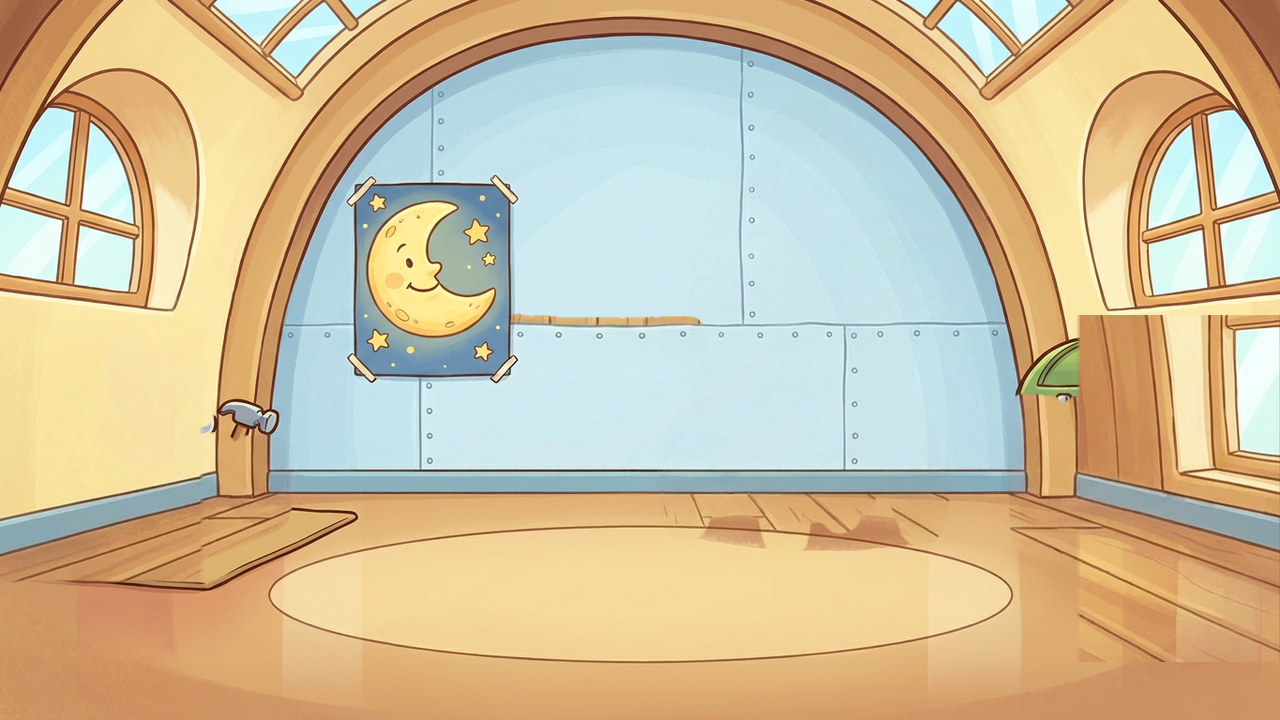
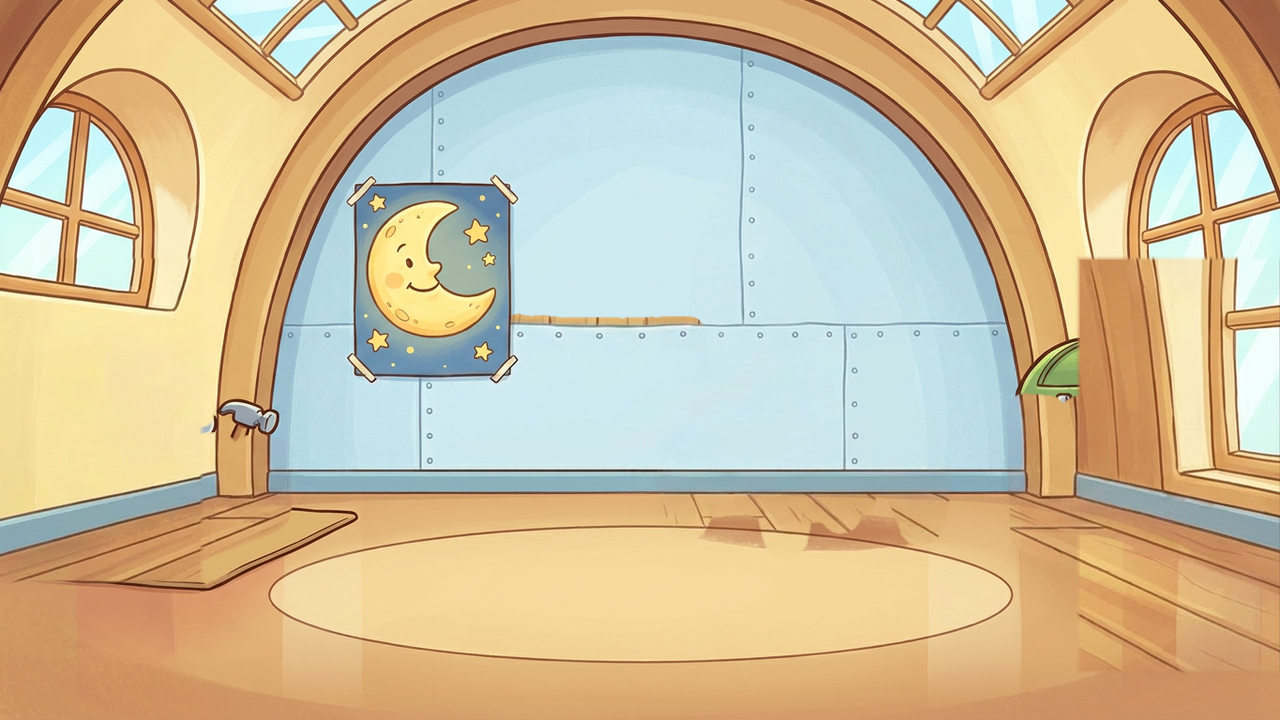
fix(escape): object-mask composite replaces bbox geometry
The by-construction composite (068fa9e) keyed on hotspot bbox unions,
but objects extend beyond their tap-target bboxes — the composite
re-pasted original fringes (green crate-lid on rocketpad, plank remnant
on piratecove). Now uses combined object masks: union of (|orig - raw
inpaint| > 8) ∪ (|b230b5a fixes - raw inpaint| > 3) ∪ (|b230b5a -
orig| > 3), dilated 16px.  Masks trace actual object silhouettes and
fix-region extents, not rectangles.

Gate updates: D.3 plate-drift and D.1 plate-emptiness now load the
precomputed mask PNGs (with bbox fallback). D.1 crops at the mask
connected-component extent for each hotspot, catching remnants beyond
the tap-target bbox.

All gates green: 13/13 sprite, 13/13 tail, 4/4 drift (0.000), 13/13
plate-emptiness, 13/13 no-doubles, tsc clean, 70/70 vitest.

diff --git a/tools/verify_escape_chain.py b/tools/verify_escape_chain.py
@@ -132,11 +132,57 @@ def _gemini_plate_check(
     return yes_count >= 2  # majority vote: 2/3 required to flag
 
 
+def _mask_bbox_for_hotspot(
+    room_mask: np.ndarray | None,
+    hotspot: dict,
+    pad: int = 20,
+) -> tuple[int, int, int, int]:
+    """Compute the crop rectangle for a hotspot.  When a room-level object
+    mask is available, uses the mask's connected component nearest the
+    hotspot bbox center to determine the crop (captures full object
+    silhouette including fringes beyond the tap-target bbox).  Falls back
+    to the sprite bbox with padding."""
+    sp = hotspot.get("sprite", {})
+    bbox = sp.get("bbox") or sp.get("restBbox")
+    if not bbox:
+        return 0, 0, 0, 0
+
+    bx, by, bw, bh = bbox["x"], bbox["y"], bbox["w"], bbox["h"]
+    cx, cy = bx + bw // 2, by + bh // 2
+
+    if room_mask is not None:
+        from scipy import ndimage as _ndi
+        labeled, n = _ndi.label(room_mask)
+        best_label, best_dist = 0, 1e9
+        for lbl in range(1, n + 1):
+            ys, xs = np.where(labeled == lbl)
+            lcx, lcy = xs.mean(), ys.mean()
+            d = ((lcx - cx) ** 2 + (lcy - cy) ** 2) ** 0.5
+            if d < best_dist:
+                best_dist, best_label = d, lbl
+        if best_label:
+            ys, xs = np.where(labeled == best_label)
+            h_img, w_img = room_mask.shape
+            x0 = max(0, int(xs.min()) - pad)
+            y0 = max(0, int(ys.min()) - pad)
+            x1 = min(w_img, int(xs.max()) + 1 + pad)
+            y1 = min(h_img, int(ys.max()) + 1 + pad)
+            return x0, y0, x1, y1
+
+    h_img, w_img = 720, 1280
+    x0 = max(0, bx - pad)
+    y0 = max(0, by - pad)
+    x1 = min(w_img, bx + bw + pad)
+    y1 = min(h_img, by + bh + pad)
+    return x0, y0, x1, y1
+
+
 def verify_plate_emptiness(room_id: str, hotspots: list[dict]) -> int:
     """For each hotspot with a rest layer, crop both the original scene and
-    the clean plate at the animation bbox, then ask Gemini whether the
-    object was properly removed (no remnants, no hallucinated replacements).
-    Fail closed."""
+    the clean plate at the object mask extent (or animation bbox as
+    fallback), then ask Gemini whether the object was properly removed.
+    Cropping at the full object mask extent catches remnants that extend
+    beyond the tap-target bbox.  Fail closed."""
     clean_path = SCENES / "escape" / f"{room_id}_clean.png"
     orig_path = SCENES / "escape" / f"{room_id}.png"
     if not clean_path.exists() or not orig_path.exists():
@@ -144,6 +190,7 @@ def verify_plate_emptiness(room_id: str, hotspots: list[dict]) -> int:
 
     clean = Image.open(clean_path).convert("RGB")
     orig = Image.open(orig_path).convert("RGB")
+    room_mask = _load_object_mask(room_id)
     fails = 0
 
     for h in hotspots:
@@ -151,13 +198,12 @@ def verify_plate_emptiness(room_id: str, hotspots: list[dict]) -> int:
         if not sp.get("rest"):
             continue
 
-        bbox = sp.get("bbox") or sp.get("restBbox")
-        if not bbox:
+        x0, y0, x1, y1 = _mask_bbox_for_hotspot(room_mask, h)
+        if x1 <= x0 or y1 <= y0:
             continue
 
-        x, y, w, bh = bbox["x"], bbox["y"], bbox["w"], bbox["h"]
-        orig_crop = orig.crop((x, y, x + w, y + bh))
-        clean_crop = clean.crop((x, y, x + w, y + bh))
+        orig_crop = orig.crop((x0, y0, x1, y1))
+        clean_crop = clean.crop((x0, y0, x1, y1))
 
         obj = HOTSPOT_OBJECTS.get((room_id, h["id"]), h["id"])
         has_defect = _gemini_plate_check(orig_crop, clean_crop, obj)
@@ -173,9 +219,38 @@ def verify_plate_emptiness(room_id: str, hotspots: list[dict]) -> int:
     return fails
 
 
+def _load_object_mask(room_id: str) -> np.ndarray | None:
+    """Load the precomputed object mask for a room.  Falls back to None
+    if no mask file exists (caller must handle)."""
+    mask_path = SCENES / "escape" / f"{room_id}_mask.png"
+    if not mask_path.exists():
+        return None
+    return np.array(Image.open(mask_path).convert("L")) > 127
+
+
+def _bbox_fallback_mask(hotspots: list[dict], h_img: int, w_img: int) -> np.ndarray:
+    """Union of bbox + restBbox (+8px dilation) — legacy fallback when no
+    precomputed object mask is available."""
+    mask = np.zeros((h_img, w_img), dtype=bool)
+    for h in hotspots:
+        sp = h.get("sprite", {})
+        if not sp.get("rest"):
+            continue
+        for key in ("bbox", "restBbox"):
+            bb = sp.get(key)
+            if bb:
+                x, y, w, bh = bb["x"], bb["y"], bb["w"], bb["h"]
+                y0, x0 = max(0, y - 8), max(0, x - 8)
+                y1, x1 = min(h_img, y + bh + 8), min(w_img, x + w + 8)
+                mask[y0:y1, x0:x1] = True
+    return mask
+
+
 def verify_plate_drift(room_id: str, hotspots: list[dict]) -> int:
-    """Gate D.3: outside the union of all hotspot object bboxes (+8px),
-    the clean plate must be pixel-near-identical to the original scene.
+    """Gate D.3: outside the object mask, the clean plate must be
+    pixel-near-identical to the original scene.  Uses precomputed
+    object masks (combined inpaint + fix extent) that follow actual
+    object silhouettes, not hotspot bboxes.
     Returns number of failures (0 or 1)."""
     clean_path = SCENES / "escape" / f"{room_id}_clean.png"
     orig_path = SCENES / "escape" / f"{room_id}.png"
@@ -189,18 +264,9 @@ def verify_plate_drift(room_id: str, hotspots: list[dict]) -> int:
         return 1
 
     h_img, w_img = orig.shape[:2]
-    mask = np.zeros((h_img, w_img), dtype=bool)
-    for h in hotspots:
-        sp = h.get("sprite", {})
-        if not sp.get("rest"):
-            continue
-        for key in ("bbox", "restBbox"):
-            bb = sp.get(key)
-            if bb:
-                x, y, w, bh = bb["x"], bb["y"], bb["w"], bb["h"]
-                y0, x0 = max(0, y - 8), max(0, x - 8)
-                y1, x1 = min(h_img, y + bh + 8), min(w_img, x + w + 8)
-                mask[y0:y1, x0:x1] = True
+    mask = _load_object_mask(room_id)
+    if mask is None:
+        mask = _bbox_fallback_mask(hotspots, h_img, w_img)
 
     outside = ~mask
     if outside.sum() == 0:
